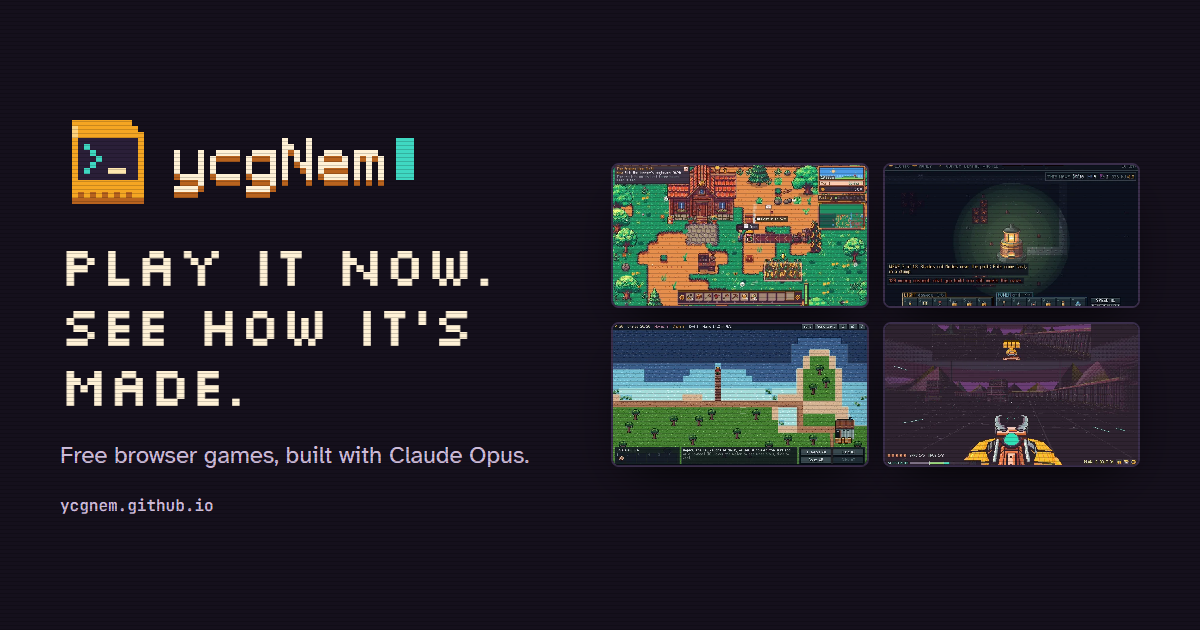
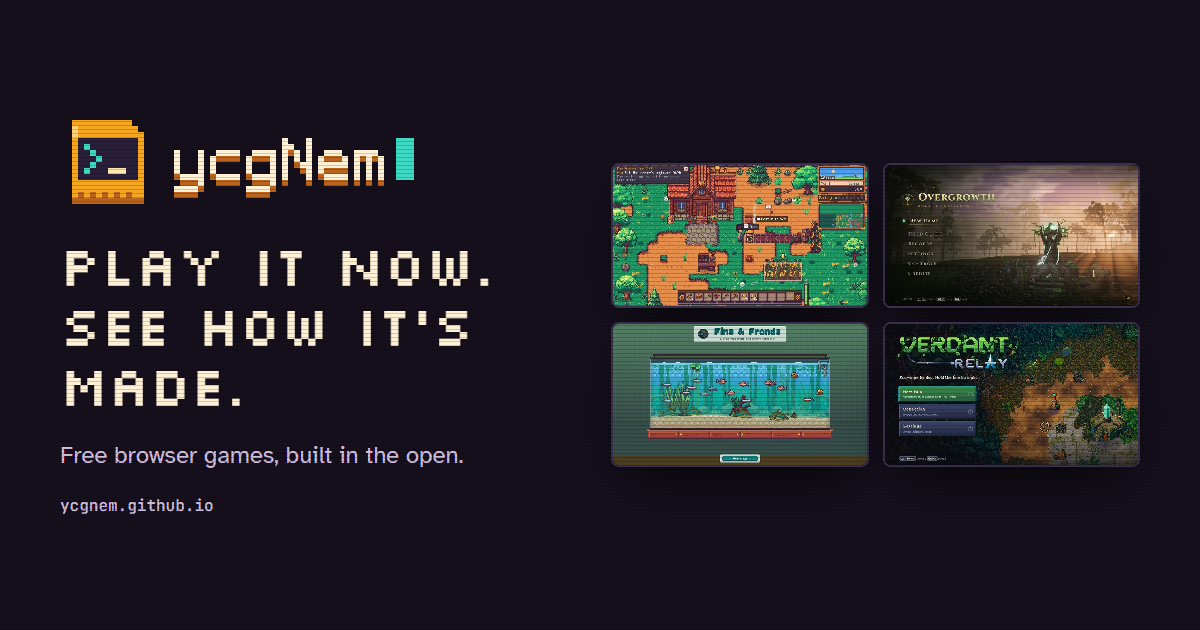
Stop leading with AI in the site copy
The home headline, footer, promises, About page heading, site
description, README and link-preview image no longer advertise AI.
How each game was made is still stated on its own page and on the
About page.

The link-preview image also now shows four games that are on the site.

Changed region(s): [[0.4933, 0.5127, 0.9558, 0.754], [0.74, 0.2413, 0.9558, 0.4825], [0.2775, 0.6937, 0.4317, 0.754]]

diff --git a/build.py b/build.py
@@ -49,7 +49,7 @@ SHELVES = [
 PROMISES = [
     ("Free in your browser", "Every game is free to play in your browser."),
     ("Public code", "Every repo is public."),
-    ("Honest about AI", "I'll always say what the AI did."),
+    ("How it's made", "Every game page says how it was built."),
     ("Patch notes", "Every update gets patch notes."),
     ("A reply", "If you leave feedback, you get a reply."),
 ]
@@ -328,7 +328,7 @@ def layout(path, title, desc, body, image="/assets/brand/og-image.png", kind="we
       <div><h2>Read</h2><a href="/devlog/">Devlog</a><a href="/about/">How it's made</a><a href="/feed.xml">RSS</a></div>
       <div><h2>Follow</h2><a href="/community/">Community</a>{foot_social}</div>
     </nav>
-    <p class="foot-legal">Built with Claude. Free games, public code, no ads, no trackers. © <span data-year>{TODAY.year}</span> ycgNem</p>
+    <p class="foot-legal">Free games, public code, no ads, no trackers. © <span data-year>{TODAY.year}</span> ycgNem</p>
   </div>
 </footer>
 <dialog class="palette" data-palette aria-label="Search games and posts">
@@ -467,7 +467,7 @@ def stats_strip():
         nums.append((nice_date(max(ups), year=False), "latest update"))
     return f"""<section class="strip">
   <div class="wrap strip-in">
-    <h1>Free browser games, built with AI, <em>shown in the open.</em></h1>
+    <h1>Free browser games, <em>built in the open.</em></h1>
     <ul class="nums">{"".join(f'<li><b>{a}</b><span>{b}</span></li>' for a, b in nums)}</ul>
   </div>
 </section>"""
@@ -558,7 +558,7 @@ def page_index(posts):
   <div class="wrap">
     <header class="band-head">
       <div><p class="eyebrow">The deal</p><h2>Five promises</h2>
-        <p class="band-sub">I make these with AI and I won't hide it. Here's what you get in return.</p></div>
+        <p class="band-sub">What you can count on from every game here.</p></div>
       <a class="btn btn-ghost btn-sm" href="/about/">How it's made</a>
     </header>
     {promises()}
@@ -734,13 +734,13 @@ def page_about():
 <div class="wrap">
   <header class="page-head">
     <p class="eyebrow">How it's made</p>
-    <h1>A gamer, with AI on the crew</h1>
-    <p class="lede">I'm ycgNem. I've played games my whole life, and this year I started making them. I build with AI and I'm not going to hide that. Here's what it actually means.</p>
+    <h1>A gamer who started making games</h1>
+    <p class="lede">I'm ycgNem. I've played games my whole life, and this year I started making them. Here's how they get made.</p>
   </header>
   <section class="band about-who">
     <div class="split">
       <div class="panel"><p class="panel-n">01</p><h2>I decide what the game is</h2><p>Every game starts as a design doc: the loop, the numbers, what should feel good. I write what I want and why.</p></div>
-      <div class="panel"><p class="panel-n">02</p><h2>Claude writes most of the code</h2><p>It works in milestones from those docs. I play every build, decide what stays, and send it back when something feels wrong.</p></div>
+      <div class="panel"><p class="panel-n">02</p><h2>The code is built in milestones</h2><p>Claude, an AI model, writes most of it from those docs, one milestone at a time. I play every build, decide what stays, and send it back when something feels wrong.</p></div>
       <div class="panel"><p class="panel-n">03</p><h2>Art is a mix</h2><p>Some sprites come from PixelLab, an AI pixel-art tool. Some are drawn pixel by pixel by Claude in a script. The 3D games use models built by Blender scripts. Each game page says which.</p></div>
       <div class="panel"><p class="panel-n">04</p><h2>The numbers are mine to own</h2><p>If a tower does 6 kJ/s, that number is on screen, and I can tell you why it's that number.</p></div>
     </div>
@@ -763,7 +763,7 @@ def page_about():
   </section>
 </div>
 {join_band()}"""
-    return layout("/about/", "How it's made", "How ycgNem builds games with AI: who does what, five promises, and the receipts.", body, page="about")
+    return layout("/about/", "How it's made", "How ycgNem's games get made: who does what, five promises, and the receipts.", body, page="about")
 
 
 def page_community():

diff --git a/content/devlog/2026-10-13-hello.md b/content/devlog/2026-10-13-hello.md
@@ -1,7 +1,7 @@
 ---
 title: Hello. I make games now.
 date: 2026-10-13
-summary: Who I am, what's on this site, how I build with AI, and the five promises I'm making to anyone who plays.
+summary: Who I am, what's on this site, how the games get made, and the five promises I'm making to anyone who plays.
 cover: /assets/games/sprocket-and-sprout/cover.webp
 ---
 
@@ -11,7 +11,7 @@ This site is where all of it lives: nine games, all playable right now in your b
 
 ## How I make them
 
-I build with AI, and I'm not going to hide that. Here's what that actually means:
+Here's how a game gets made:
 
 - **I decide what the game is.** Every game starts as a design doc: the loop, the numbers, what should feel good. I write what I want and why.
 - **Claude Opus writes most of the code.** It works in milestones from those docs. I play every build, decide what stays, and send it back when something feels wrong.
@@ -24,7 +24,7 @@ You can check all of it. Every game's source is public on [GitHub](https://githu
 
 1. Every game is free to play in your browser.
 2. Every repo is public.
-3. I'll always say what the AI did.
+3. Every game page says how it was built.
 4. Every update gets patch notes.
 5. If you leave feedback, you get a reply.
 

diff --git a/README.md b/README.md
@@ -1,6 +1,6 @@
 # ycgnem.github.io
 
-The home of ycgNem's games: free browser games built with AI and shown in the open.
+The home of ycgNem's games: free browser games, built in the open.
 
 **Visit: https://ycgnem.github.io**
 
